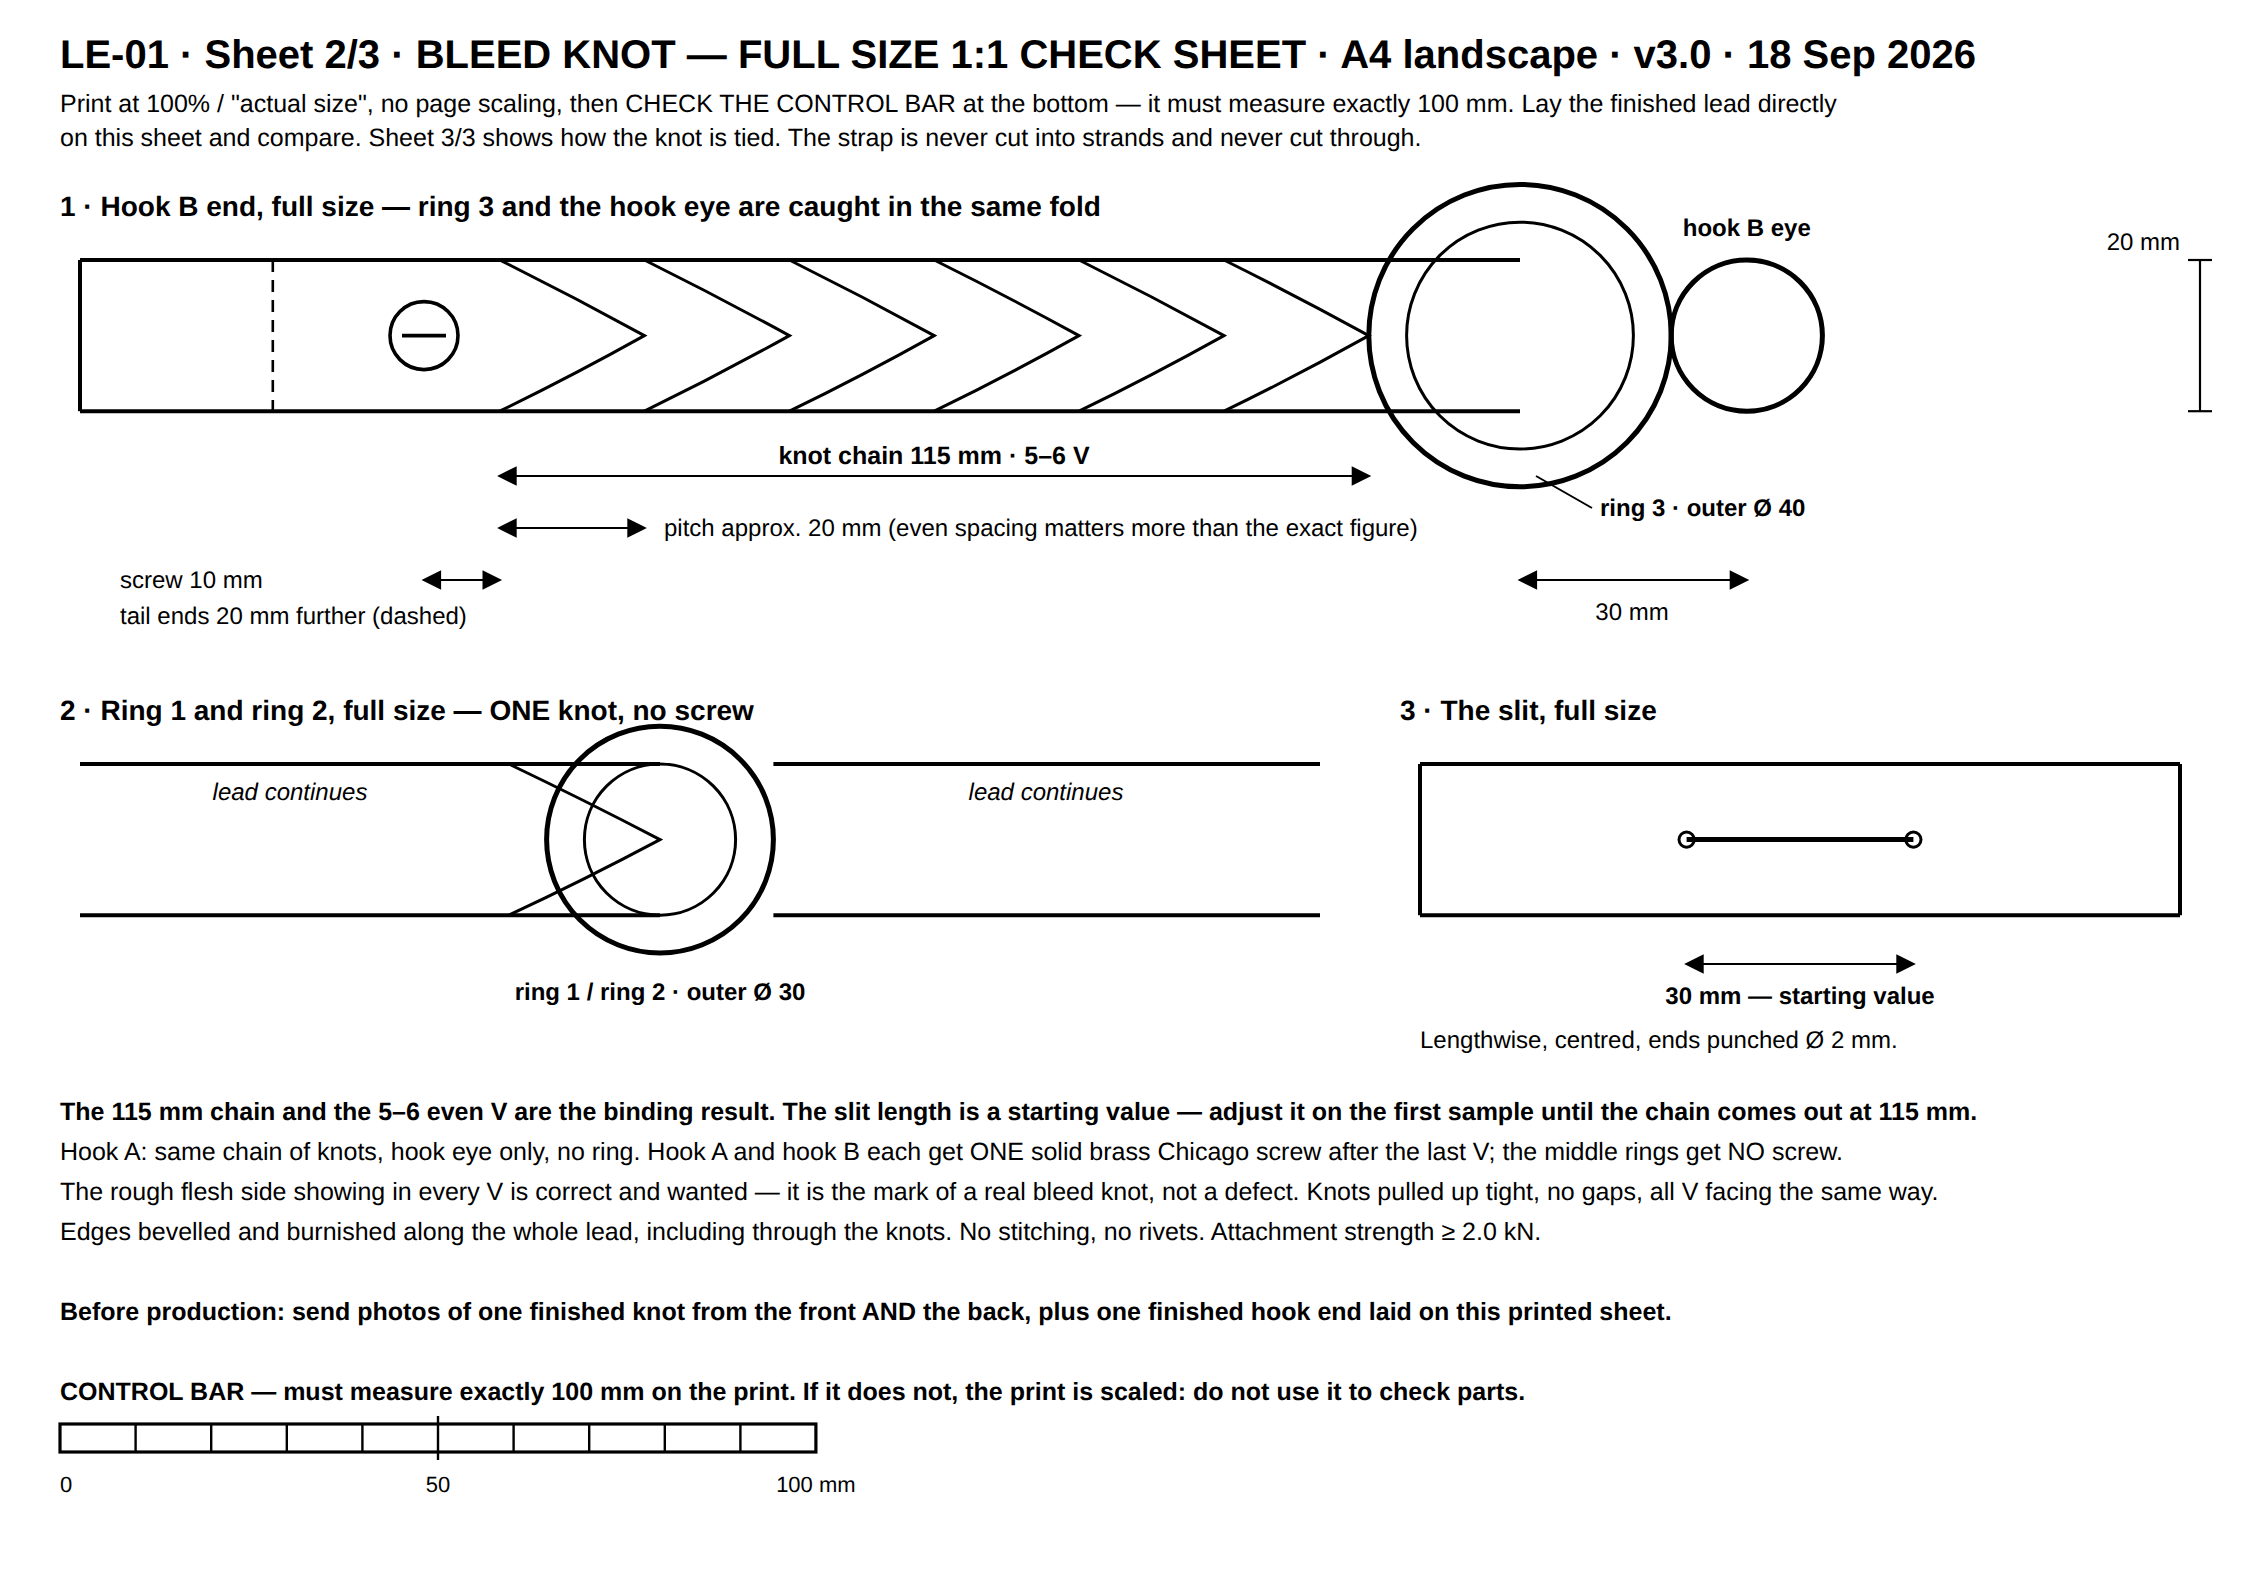
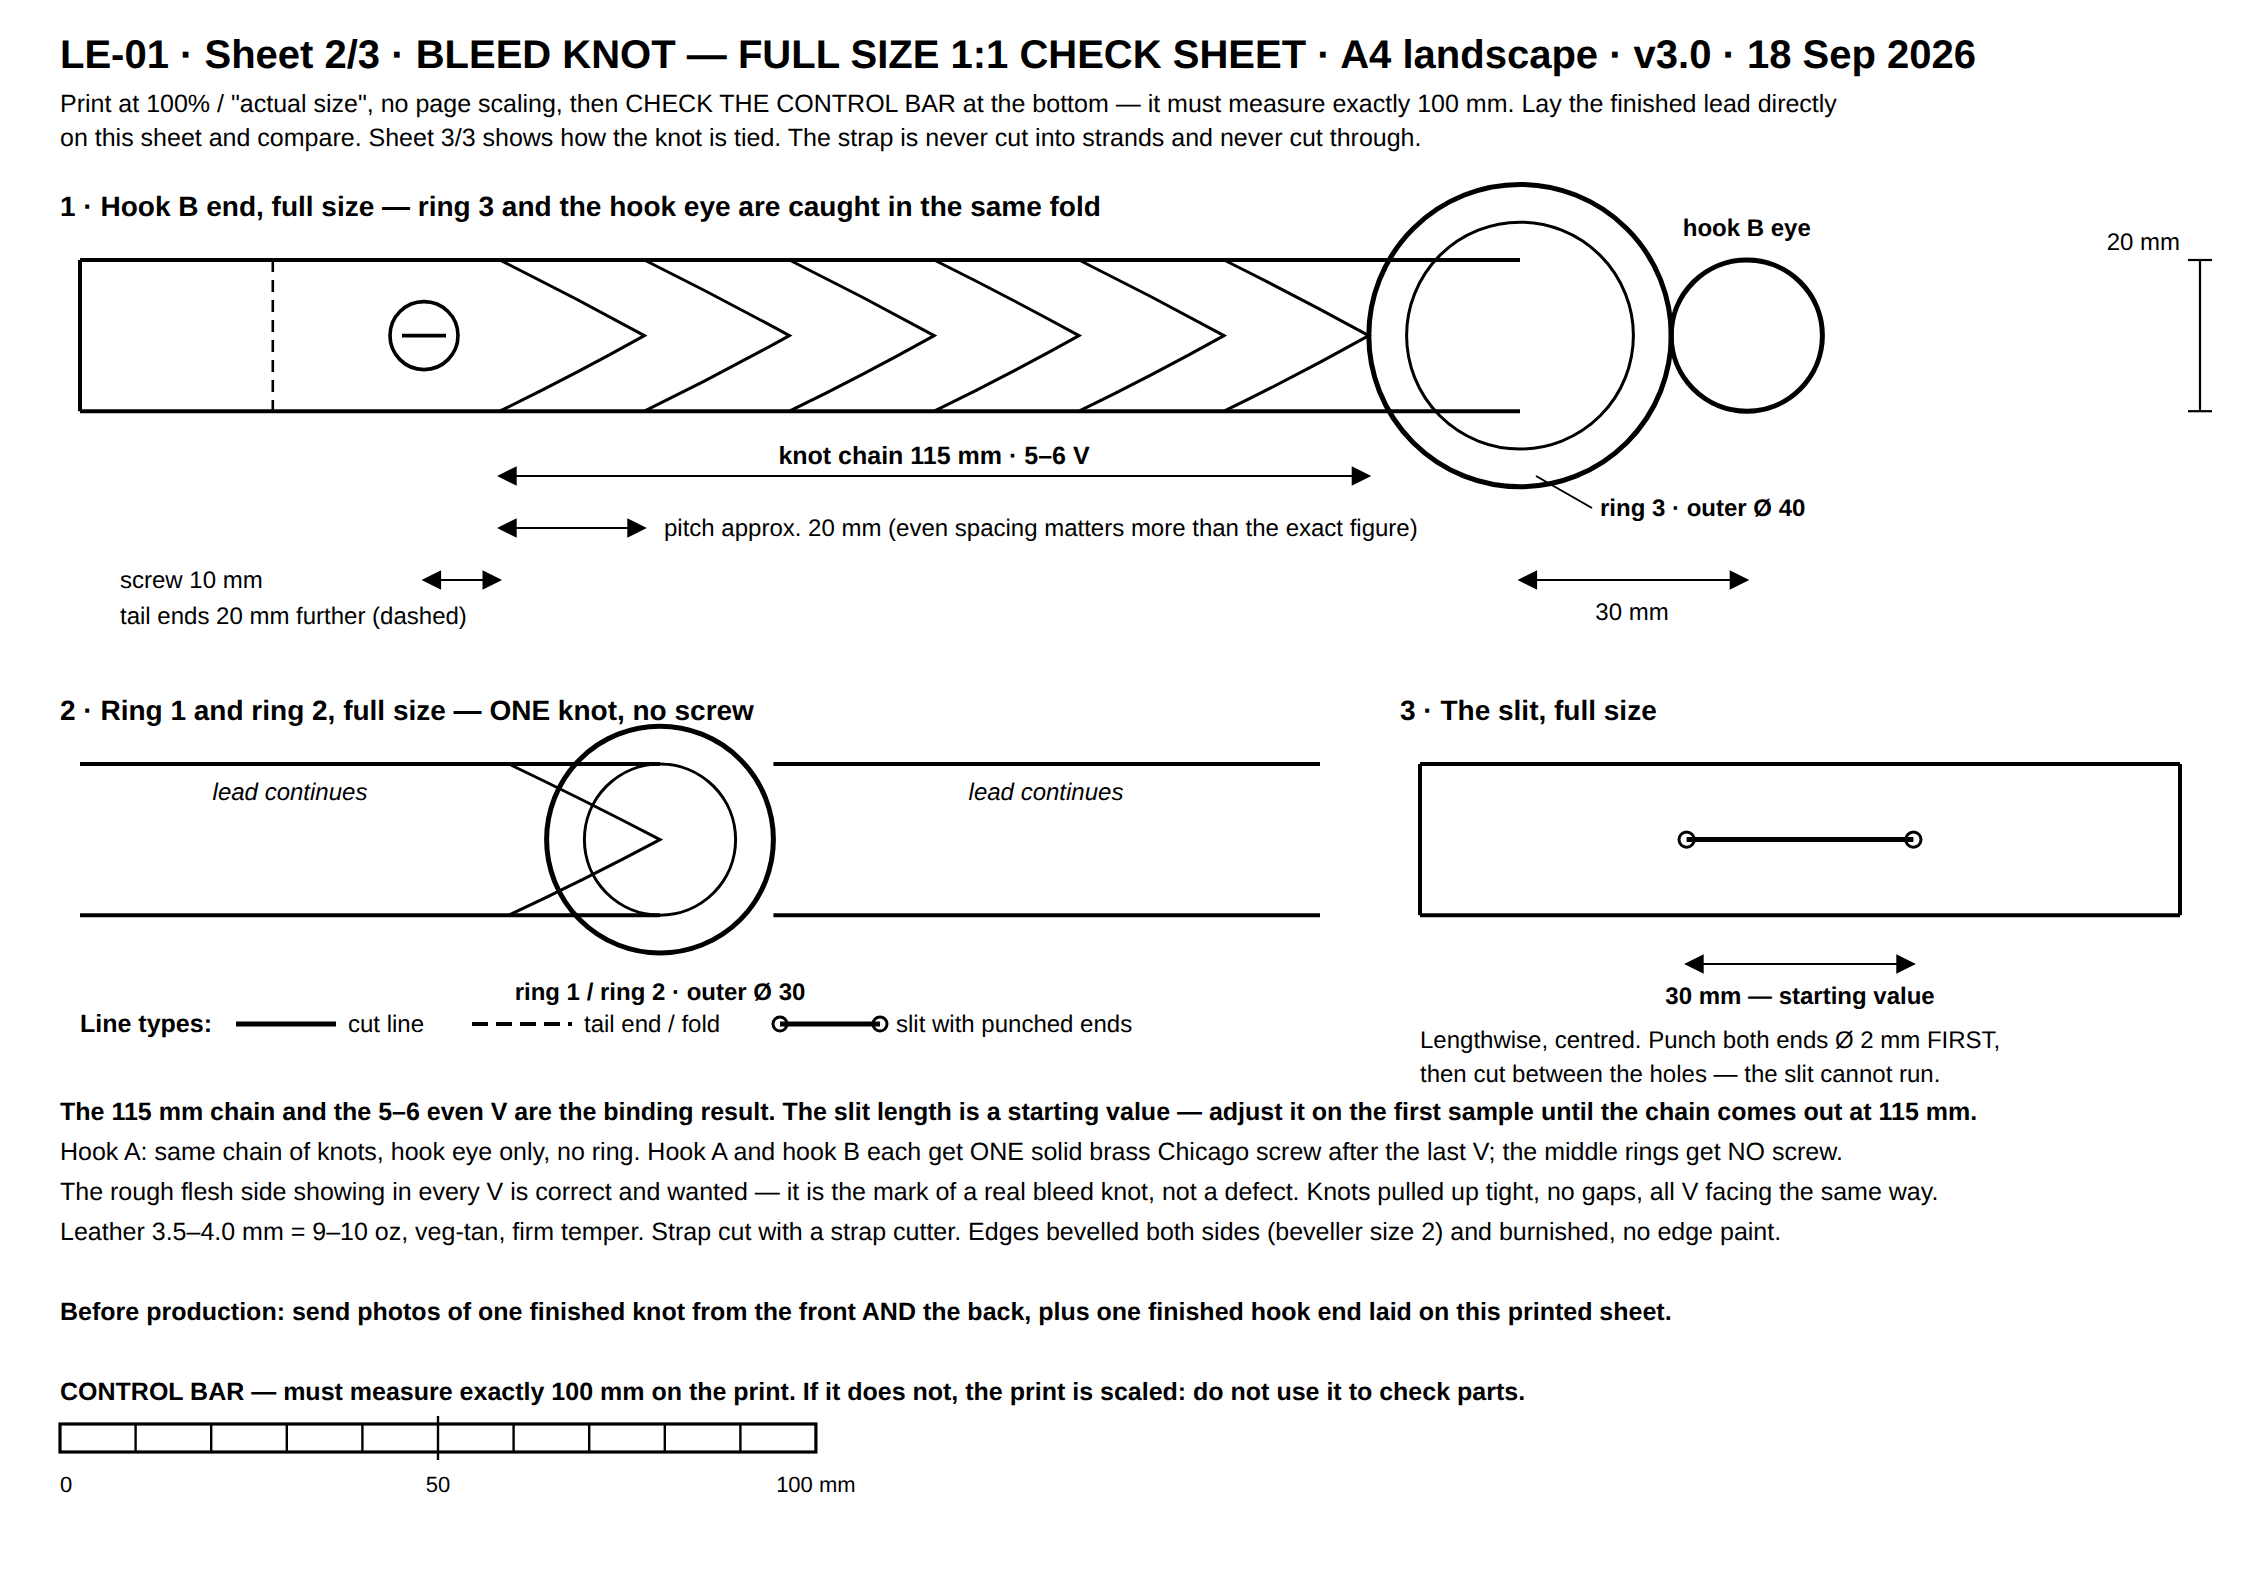
LE-01/PATCH-01: Zeichnungen nach Lederhandwerks-Konvention statt Maschinenbau
Die Blätter lasen sich wie technische Zeichnungen aus dem Maschinenbau. Ein
Sattler erwartet andere Angaben, die jetzt drin sind:

- Lederstärke zusätzlich in oz (3,5–4,0 mm = 9–10 oz), Gerbart und Härtegrad.
  In oz rechnet die Branche, mm allein sagt dem Zuschnitt wenig.
- Linienlegende auf Blatt 1 und 2: Schnittkante, Falzlinie, Schlitz mit
  gelochten Enden, Lochmitte. Ohne die ist eine Musterzeichnung mehrdeutig.
- Werkzeuge benannt: Streifenschneider, Kopfmesser, Ø 2 mm Rundlocheisen,
  Kantenschäler Größe 2, Glättholz.
- Arbeitsfolge am Schlitz korrigiert: erst beide Enden lochen, dann dazwischen
  schneiden. Andersherum reißt der Schlitz unter Last aus — das ist der
  eigentliche Grund für die gelochten Enden, stand aber nirgends.
- Narben- und Fleischseite ausdrücklich vermerkt.

Claude-Session: https://claude.ai/code/session_01BtwGnQFHvSFsizX4w9vtx1

diff --git a/sourcing/bellowerk/zeichnungen/mkbraid.py b/sourcing/bellowerk/zeichnungen/mkbraid.py
@@ -94,6 +94,7 @@ A(f'<rect width="{W}" height="{H}" fill="#fff"/>')
 A(txt(40, 44, 'LE-01 · Sheet 3/3 · THE BLEED KNOT — how every ring and hook is fixed', 25, INK, weight="bold"))
 A(txt(40, 70, 'Bellowerk Manufaktur · v3.0 · 18 Sep 2026 · A3 landscape · Taken from the golden sample. The technique is the "bleed knot" (also called blood knot) —', 14))
 A(txt(40, 92, 'a known leather technique, no stitching and no rivets. The strap is NEVER cut into strands and NEVER cut through. It is one piece from end to end.', 14, weight="bold"))
+A(txt(40, 112, 'Leather: veg-tan cowhide 3.5–4.0 mm = 9–10 oz, firm temper, oiled pull-up. Strap cut 20 mm with a strap cutter. Edges bevelled both sides and burnished, no edge paint.', 13, "#444"))
 
 lx = 1105
 A(f'<rect x="{lx - 14}" y="28" width="450" height="80" rx="8" fill="#f7f7f7" stroke="#d5d5d5"/>')
@@ -105,7 +106,7 @@ A(txt(lx + 258, 73, 'flesh side (rough)', 12.5))
 A(txt(lx, 98, 'The flesh side showing through is how you know the knot is right.', 12.5, "#555"))
 
 PW, PH = 490, 292
-R1, R2 = 128, 442
+R1, R2 = 140, 452
 
 # ================= 1 · Ein Schlitz =================
 px, py = 40, R1
@@ -118,10 +119,10 @@ A(f'<g stroke="{INK}" stroke-width="1.2">'
   f'<line x1="{px + 302}" y1="{py + 180}" x2="{px + 302}" y2="{py + 192}"/></g>')
 A(txt(px + 245, py + 176, '30 mm', 13, anchor="middle", weight="bold"))
 A(txt(px + 322, py + 178, 'slit runs ALONG the strap', 12.5, "#555"))
-A(txt(px + 30, py + 212, 'ONE lengthwise slit in the middle of the strap, 30 mm long,', 13))
-A(txt(px + 30, py + 230, 'centred across the width. Both ends punched Ø 2 mm so the', 13))
-A(txt(px + 30, py + 248, 'slit cannot run. Nothing else is cut — the strap keeps its', 13))
-A(txt(px + 30, py + 266, 'full 20 mm width and stays one piece.', 13, weight="bold"))
+A(txt(px + 30, py + 212, 'ONE lengthwise slit, 30 mm long, centred across the width.', 13))
+A(txt(px + 30, py + 230, 'Punch both ends Ø 2 mm FIRST, then cut between the two', 13, weight="bold"))
+A(txt(px + 30, py + 248, 'holes with a head knife — that way the slit cannot run.', 13, weight="bold"))
+A(txt(px + 30, py + 266, 'Nothing else is cut: the strap keeps its full 20 mm width.', 13))
 
 # ================= 2 · Ring auffaedeln, Ende durchziehen =================
 px = 40 + (PW + 13)

diff --git a/sourcing/bellowerk/specs/LE-01-fuehrleine.md b/sourcing/bellowerk/specs/LE-01-fuehrleine.md
@@ -28,13 +28,13 @@ Leather patch PATCH-01 PA-L near hook B.
 
 | Part | Specification |
 |---|---|
-| Leather | Cowhide, vegetable-tanned, full grain, oiled/waxed pull-up ("Fettleder"), dyed through, **3.5–4.0 mm**, width **20 mm ±0.5**. One continuous strap, no joints. Colours: grey, dark brown, olive, cognac, black. |
+| Leather | Cowhide, vegetable-tanned, full grain, oiled/waxed pull-up ("Fettleder"), dyed through, **3.5–4.0 mm = 9–10 oz**, firm temper, width **20 mm ±0.5**, cut with a strap cutter. One continuous strap, no joints. Colours: grey, dark brown, olive, cognac, black. |
 | Snap hooks (2) | Swivel trigger snap ("swivel eye bolt snap"), **solid brass**, polished, overall length **60 mm**, eye for 20 mm strap, min. breaking load **2.0 kN**, strong spring. |
 | O-rings 1 + 2 | Welded, ground smooth, solid brass, **outer Ø 30 mm**, wire Ø 5 mm, min. 3 kN. |
 | O-ring 3 | Welded, ground smooth, solid brass, **outer Ø 40 mm**, wire Ø 5 mm, min. 3 kN. |
 | Screws | Chicago screws solid brass, domed head Ø 9 mm, post 8 mm, thread-locked. **2 pcs — at hook A and hook B only** (+ 2 for the patch). The middle rings get no screw. |
 | Patch | PATCH-01 **PA-L, 110 × 18 mm**, 2 Chicago screws **93 mm** apart (hole centres 8.5 mm from each end). |
-| Edges | Bevelled, burnished, no paint — along the whole lead, including through the knots. |
+| Edges | Bevelled both sides (edge beveller size 2), burnished, **no edge paint** — along the whole lead, including through the knots. |
 
 ## 3. Dimensions
 
@@ -73,8 +73,9 @@ the control bar (100 mm) before laying parts on it.**
 
 ### One knot
 
-1. Cut **one lengthwise slit** in the strap, **30 mm** long, centred across the width. Both ends punched
-   Ø 2 mm so the slit cannot run. Nothing else is cut.
+1. Mark the slit: **30 mm** long, lengthwise, centred across the width. **Punch both ends with a Ø 2 mm
+   round punch FIRST, then cut between the two holes** with a head knife. Cutting first and punching after
+   lets the slit run under load. Nothing else is cut.
 2. Put the ring (or the hook) on the strap.
 3. Push the **whole rest of the lead** through the open slit.
 4. Pull it up tight against the ring. The leather turns as it passes through itself, so the **rough flesh
@@ -97,6 +98,11 @@ grain side. The knots carry the load — the screw only stops the tail lifting.
 
 The same, but the strap passes through **ring 3 AND the hook eye in the same fold**; ring 3 sits 30 mm
 before the hook eye.
+
+### Tools and finishing
+
+Head knife or slitting knife for the slits, Ø 2 mm round punch for the slit ends, strap cutter for the
+20 mm width, edge beveller size 2 both sides, burnisher. No edge paint, no glue, no stitching, no rivets.
 
 ### Material and strength
 

diff --git a/sourcing/bellowerk/specs/PATCH-01-markenpatch.md b/sourcing/bellowerk/specs/PATCH-01-markenpatch.md
@@ -18,13 +18,13 @@ in a handwritten script, right-aligned under line 1. No stitching, no glue as th
 
 | | |
 |---|---|
-| Leather | Vegetable-tanned cowhide, full grain, **2.0–2.5 mm**, colour cognac / medium brown (same on all strap colours: grey, dark brown, olive, cognac). Firm, smooth grain for clean engraving. |
+| Leather | Vegetable-tanned cowhide, full grain, **2.0–2.5 mm = 5–6 oz**, colour cognac / medium brown (same on all strap colours: grey, dark brown, olive, cognac). Firm, smooth grain for clean engraving. |
 | Sizes | **PA-L 110 × 18 mm** for the lead LE-01 (20 mm strap) · **PA-M 85 × 18 mm** for 25–40 mm straps (collar M/L/XL, lead 25 mm) · **PA-S 65 × 14 mm** for hand loop HS-01 and collar S. Corner radius 3 mm. |
 | Lettering | Line 1 "BELLOWERK": spaced geometric sans-serif capitals as in the existing logo (Futura/Josefin Sans style, tracking +20 %), cap height 5.0 mm (PA-L) / 4.5 mm (PA-M) / 3.5 mm (PA-S). Line 2 "Manufaktur": brush script as in the logo, x-height 2.8 / 2.5 / 2.0 mm, placed under the right half of line 1. Engraving depth 0.2–0.3 mm, dark burn, no paint, no foil. Björn supplies the vector logo; the drawing is a placeholder. |
-| Holes | 2 × Ø 4.5 mm → spacing **93 mm** (PA-L, centres 8.5 mm from each end) / **71 mm** (PA-M) / **51 mm** (PA-S, both centres 7 mm from each end) |
+| Holes | 2 × Ø 4.5 mm round punch → spacing **93 mm** (PA-L, centres 8.5 mm from each end) / **71 mm** (PA-M) / **51 mm** (PA-S, both centres 7 mm from each end) |
 | Screws | Chicago screws solid brass, head Ø 8–9 mm domed (as on photos), post 8 mm (patch + strap), thread-locked |
-| Edges | Cut clean, lightly bevelled, burnished, no edge paint |
-| Position | Collar: centred on strap, 30 mm behind buckle fold. **Lead LE-01: PA-L on the hook B side, outer end 30 mm before the screw of the hook B braid = 185 mm from the hook B eye.** Hand loop: on the overlap. |
+| Edges | Cut clean, lightly bevelled (beveller size 1), burnished, no edge paint |
+| Position | Collar: centred on strap, 30 mm behind buckle fold. **Lead LE-01: PA-L on the hook B side, outer end 30 mm before the screw of the hook B knot chain = 185 mm from the hook B eye.** Hand loop: on the overlap. |
 
 Artwork: vector (AI/PDF/SVG), text converted to outlines, 1:1, black = engraved. Min line width 0.3 mm,
 min gap 0.5 mm. Supplier to send a digital proof and one engraved sample before production.
